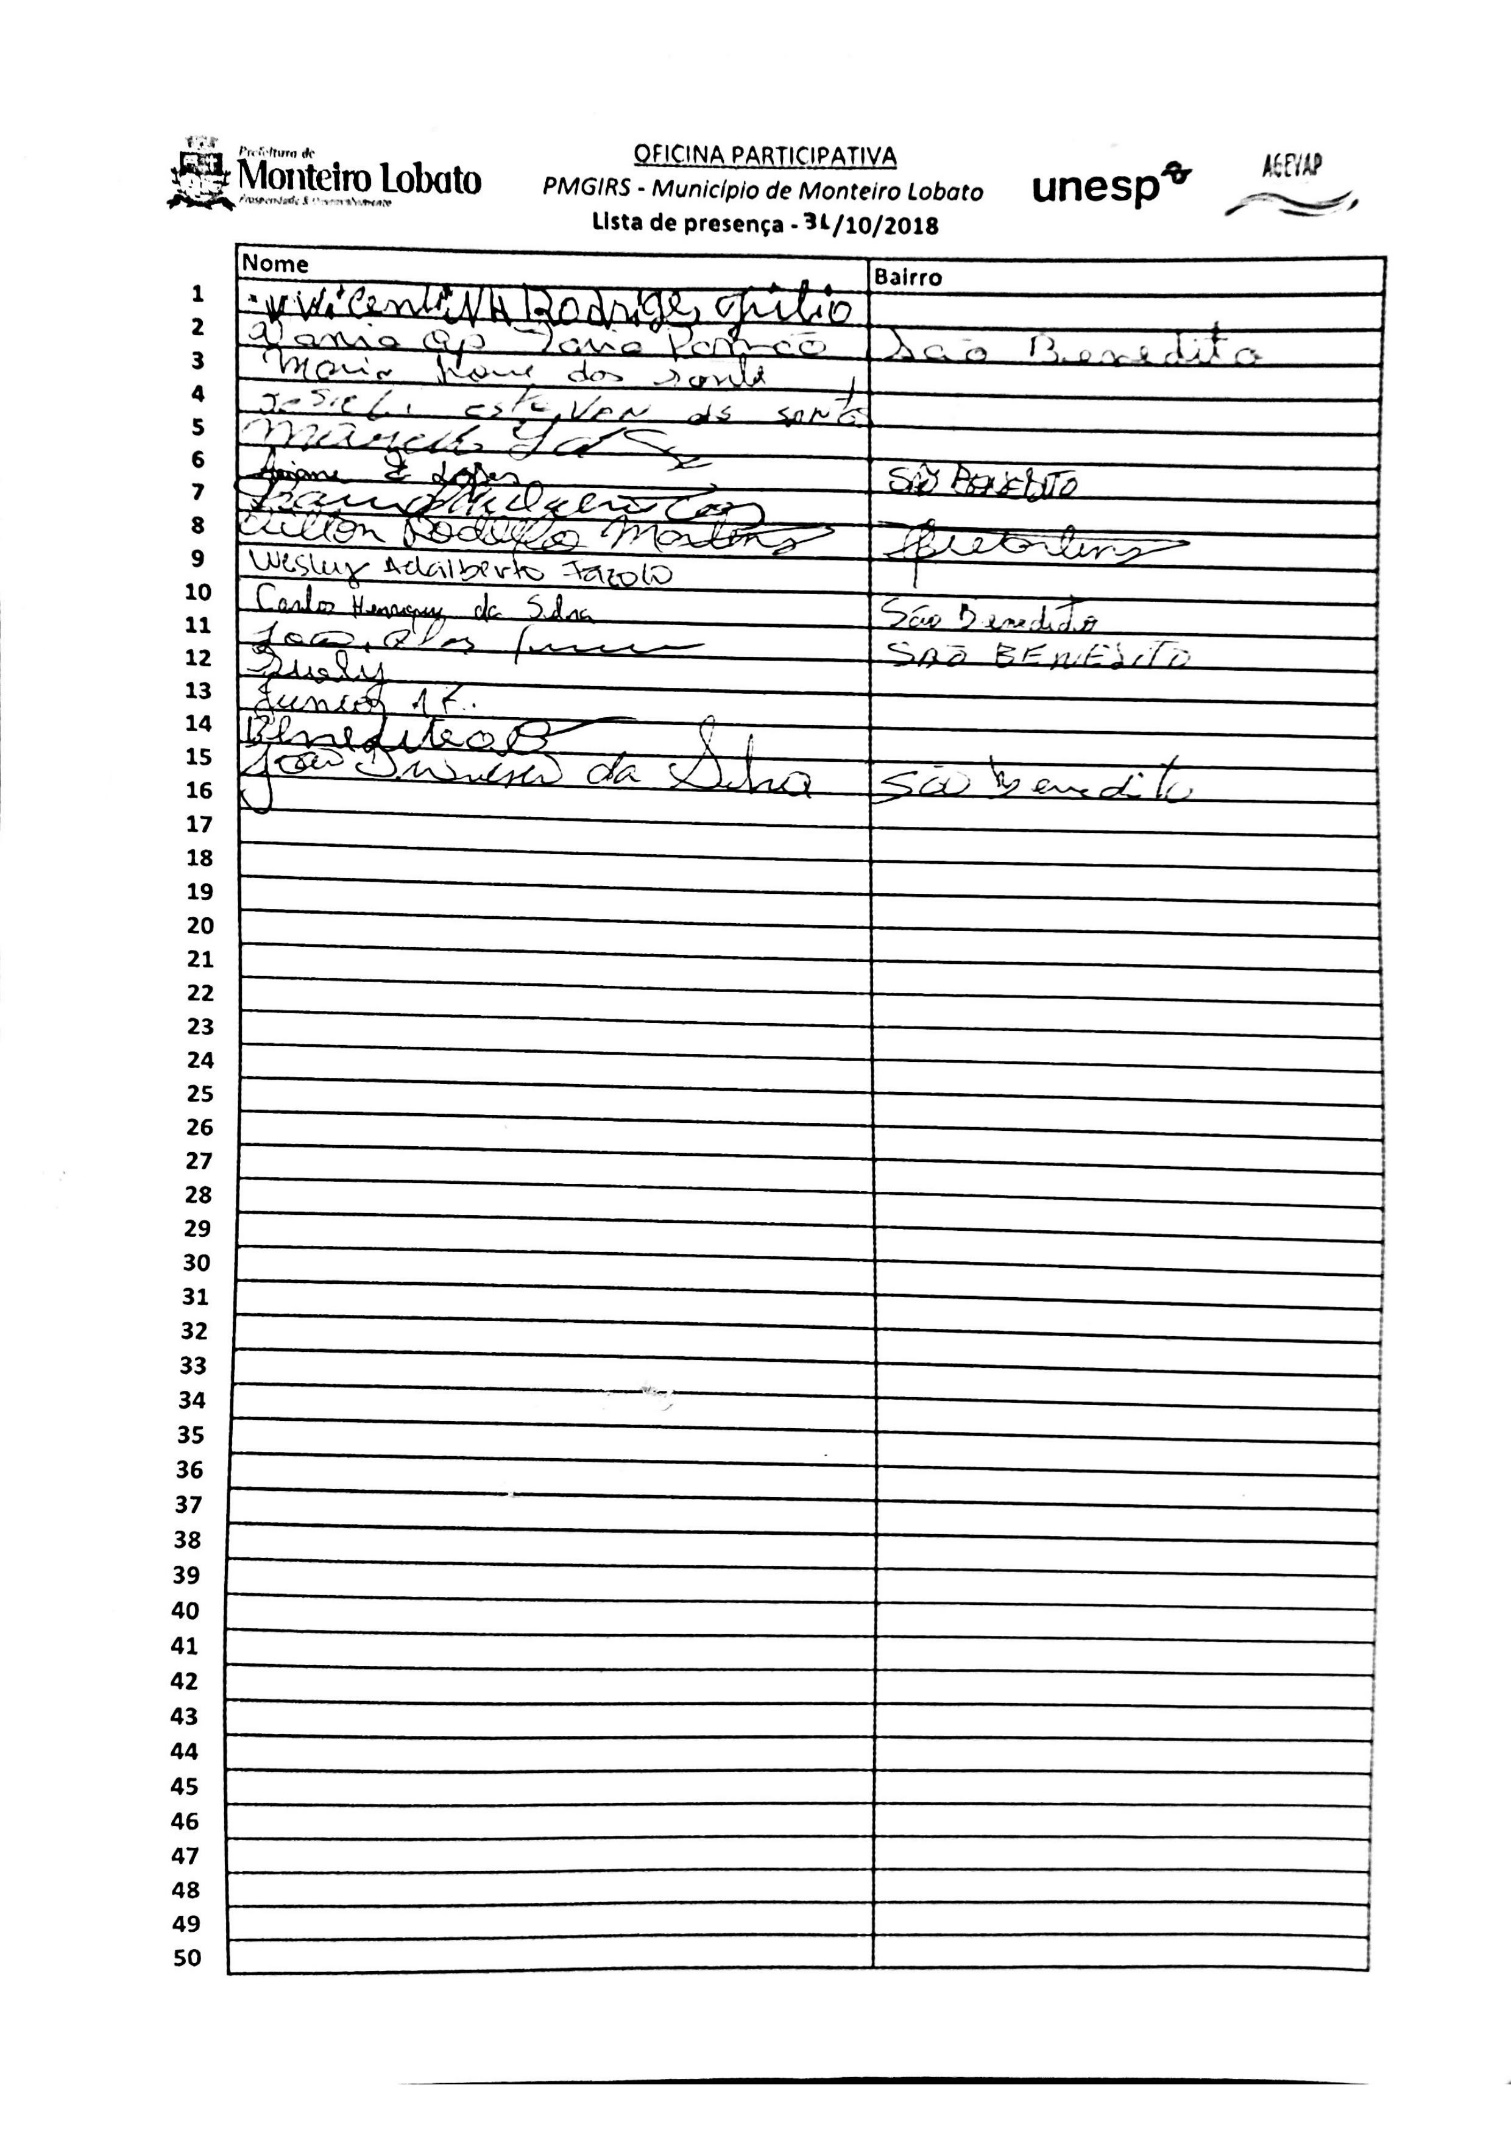
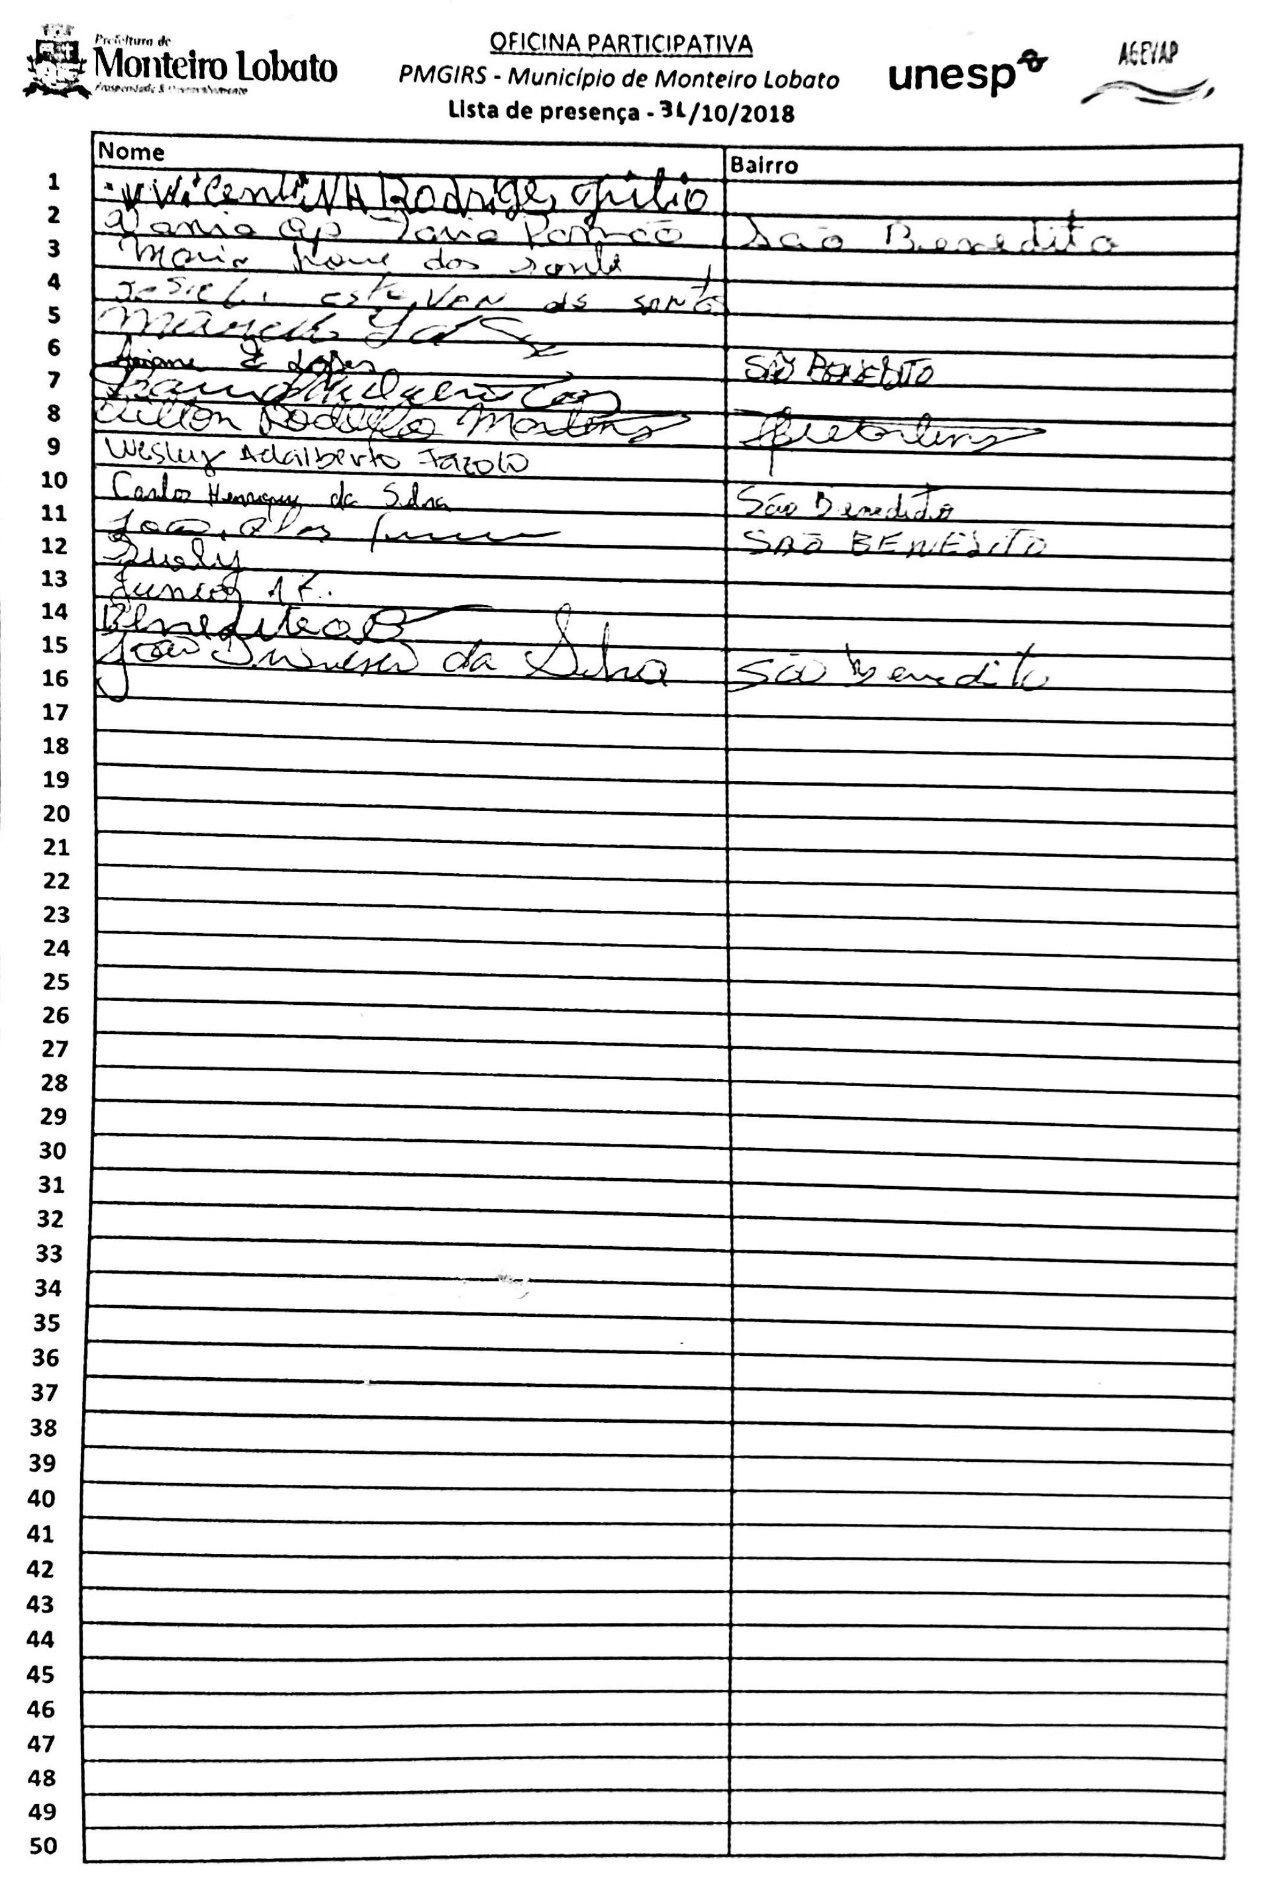
Inserção do apêndice P3
Inserção do apêndice do produto 3.

Changed region(s): [[0.0, 0.0, 0.9873, 1.0], [0.9256, 0.9851, 0.9565, 1.0]]

diff --git a/prodtres-apend.tex b/prodtres-apend.tex
@@ -1,0 +1,177 @@
+\thispagestyle{headfootimage}
+
+\titleformat{\subsection}
+{\Large\bfseries\scshape\raggedright}
+{\thesubsection}{1em}
+{}
+\titleformat{\subsubsection}
+{\Large\bfseries\scshape\raggedright}
+{\thesubsubsection}{1em}
+{}
+\titlespacing*{\section}{0pt}{*.9}{*.9}
+\titlespacing*{\subsection}{0pt}{*0.5}{*0}
+\titlespacing*{\subsubsection}{1cm}{*0}{*0}
+
+%\newenvironment{subapend}{\begin{adjustwidth}{0.1\textwidth}{0cm}}{\end{adjustwidth}}
+%\newenvironment{subsubapend}{\begin{adjustwidth}{0.1\textwidth}{0cm}}{\end{adjustwidth}}
+
+\chapter{}
+Este apêndice apresenta os gráficos referentes a geração pontual em cada mês entre os anos de 2014 e 2017. Nele pode-se perceber que os momentos onde ocorrem maior geração anual acontecem nos meses de janeiro, novembro e dezembro para a maioria dos dias de coleta. Essa tendência pode ser percebida principalmente para as segundas-feira, quando os pontos ultrapassam a média de geração para as segundas-feiras. Para quarta e sexta-feira, os valores ultrapassam a média anual com maior frequência nos meses mencionados.
+
+%\section{Segundas-feira}
+
+\begin{landscape}
+	
+	\begin{figure}[h]
+		\centering
+		\caption*{Segundas-Feira}
+		\begin{minipage}{1.3\textwidth}
+			\centering
+			\label{fig:image111}
+			\includegraphics[width=1\textwidth]{produtos/prodtres/image111}
+		\end{minipage}
+		\begin{minipage}{1.3\textwidth}
+			\centering
+			\includegraphics[width=1\textwidth]{produtos/prodtres/image112}
+			\label{fig:image112}
+		\end{minipage}
+	\end{figure}
+	
+		\begin{figure}[h]
+		\centering
+		\caption*{Segundas-feira}
+		\begin{minipage}{1.4\textwidth}
+			\centering
+			\label{fig:image113}
+			\includegraphics[width=1\textwidth]{produtos/prodtres/image113}
+		\end{minipage}
+		\begin{minipage}{1.4\textwidth}
+			\centering
+			\includegraphics[width=1\textwidth]{produtos/prodtres/image114}
+			\label{fig:image114}
+		\end{minipage}
+	\end{figure}
+
+\end{landscape}
+
+\FloatBarrier
+
+%\section{Quartas-feira}
+
+\begin{landscape}
+	
+	\begin{figure}[h]
+		\centering
+		\caption*{Quartas-feira}
+		\begin{minipage}{1.4\textwidth}
+			\centering
+			\label{fig:image115}
+			\includegraphics[width=1\textwidth]{produtos/prodtres/image115}
+		\end{minipage}
+		\begin{minipage}{1.4\textwidth}
+			\centering
+			\includegraphics[width=1\textwidth]{produtos/prodtres/image116}
+			\label{fig:image116}
+		\end{minipage}
+	\end{figure}
+	
+	\begin{figure}[h]
+		\centering
+		\caption*{Quartas-feira}
+		\begin{minipage}{1.4\textwidth}
+			\centering
+			\label{fig:image118}
+			\includegraphics[width=1\textwidth]{produtos/prodtres/image118}
+		\end{minipage}
+		\begin{minipage}{1.4\textwidth}
+			\centering
+			\includegraphics[width=1\textwidth]{produtos/prodtres/image117}
+			\label{fig:image117}
+		\end{minipage}
+	\end{figure}
+	
+\end{landscape}
+
+\FloatBarrier
+
+%\section{Sextas-feira}
+
+\begin{landscape}
+	
+	\begin{figure}[h]
+		\centering
+		\caption*{Sextas-feira}
+		\begin{minipage}{1.4\textwidth}
+			\centering
+			\label{fig:image119}
+			\includegraphics[width=1\textwidth]{produtos/prodtres/image119}
+		\end{minipage}
+		\begin{minipage}{1.4\textwidth}
+			\centering
+			\includegraphics[width=1\textwidth]{produtos/prodtres/image120}
+			\label{fig:image120}
+		\end{minipage}
+	\end{figure}
+	
+	\begin{figure}[h]
+		\centering
+		\caption*{Sextas-feira}
+		\begin{minipage}{1.4\textwidth}
+			\centering
+			\label{fig:image121}
+			\includegraphics[width=1\textwidth]{produtos/prodtres/image121}
+		\end{minipage}
+		\begin{minipage}{1.4\textwidth}
+			\centering
+			\includegraphics[width=1\textwidth]{produtos/prodtres/image122}
+			\label{fig:image122}
+		\end{minipage}
+	\end{figure}
+	
+\end{landscape}
+
+\FloatBarrier
+
+\chapter{}
+
+Este apêndice apresenta as Listas de Presença referentes as Oficinas Participativas realizadas no município de Monteiro Lobato, no período de agosto a outubro de 2018. A metodologia e resultados para essas Oficinas encontram-se descritas na secção \ref{oficinas} deste produto.
+
+\newpage
+\section{Oficina participativa com os professores}
+
+\begin{figure}[h]
+	\centering
+	\includegraphics[width=.75\linewidth]{produtos/prodtres/image123}
+	\caption*{}
+	\label{fig:image123}
+\end{figure}
+
+\FloatBarrier
+\newpage
+\section{Oficina participativa com o bairro centro}
+\begin{figure}[h]
+	\centering
+	\includegraphics[width=.75\linewidth]{produtos/prodtres/image124}
+	\caption*{}
+	\label{fig:image124}
+\end{figure}
+
+\FloatBarrier
+\newpage
+\section{Oficina participativa com o bairro Souzas}
+\begin{figure}[h]
+	\centering
+	\includegraphics[width=.75\linewidth]{produtos/prodtres/image125}
+	\caption*{}
+	\label{fig:image125}
+\end{figure}
+
+\FloatBarrier
+\newpage
+\section{Oficina participativa com o bairro São Benedito}
+\begin{figure}[h]
+	\centering
+	\includegraphics[width=.75\linewidth]{produtos/prodtres/image126}
+	\caption*{}
+	\label{fig:image126}
+\end{figure}

diff --git a/produtos/prodtres.tex b/produtos/prodtres.tex
@@ -304,7 +304,7 @@
 	
 	Nessa avaliação procurou-se conhecer a variação de geração do resíduo ao longo dos meses, onde foi possível perceber que, entre os anos avaliados, ocorreu uma tendência de maior geração entre os meses de dezembro e março, sendo janeiro o mês mais expressivo ao longo dos anos. Uma hipótese para explicar esse fato seria o acréscimo do número de turistas na região, no período.
 	
-	Há também um período de menor geração que ocorre entre agosto e setembro, conforme \autoref{fig:image018}. No apêndice A consta a geração pontual que cada segunda, quarta e sexta feira produzia ao longo dos meses comparativamente com as médias anuais e diárias ao longo dos anos avaliados (2014-2017).
+	Há também um período de menor geração que ocorre entre agosto e setembro, conforme \autoref{fig:image018}. No Apêndice A consta a geração pontual que cada segunda, quarta e sexta feira produzia ao longo dos meses comparativamente com as médias anuais e diárias ao longo dos anos avaliados (2014-2017).
 
 \begin{landscape}	
 	\begin{figure}
@@ -2008,7 +2008,8 @@ A remuneração pela prestação de serviço público de manejo de resíduos só
 	
 	\newpage
 	\section{Oficina para a apresentação do diagnóstico e discussões acerca da realização do prognóstico}
-	
+	\label{oficinas}
+		
 	\subsection{Metodologia}
 	A oficina participativa é um instrumento amplamente utilizado para aproximar entidades públicas ou privadas de comunidades que serão diretamente afetadas por ações, empreendimento ou políticas que possam alterar o cotidiano desta população. Nessa prática, procura-se informar as condições dos locais que receberão tais ações propostas, os estudos efetuados e resultados obtidos até o momento. A informação é passada de forma simples, direta e transparente, de forma a cientificar e elucidar o caso à população quanto ao andamento do projeto e às possíveis alterações que ocorrerão dentro do escopo apresentado. 
 	
